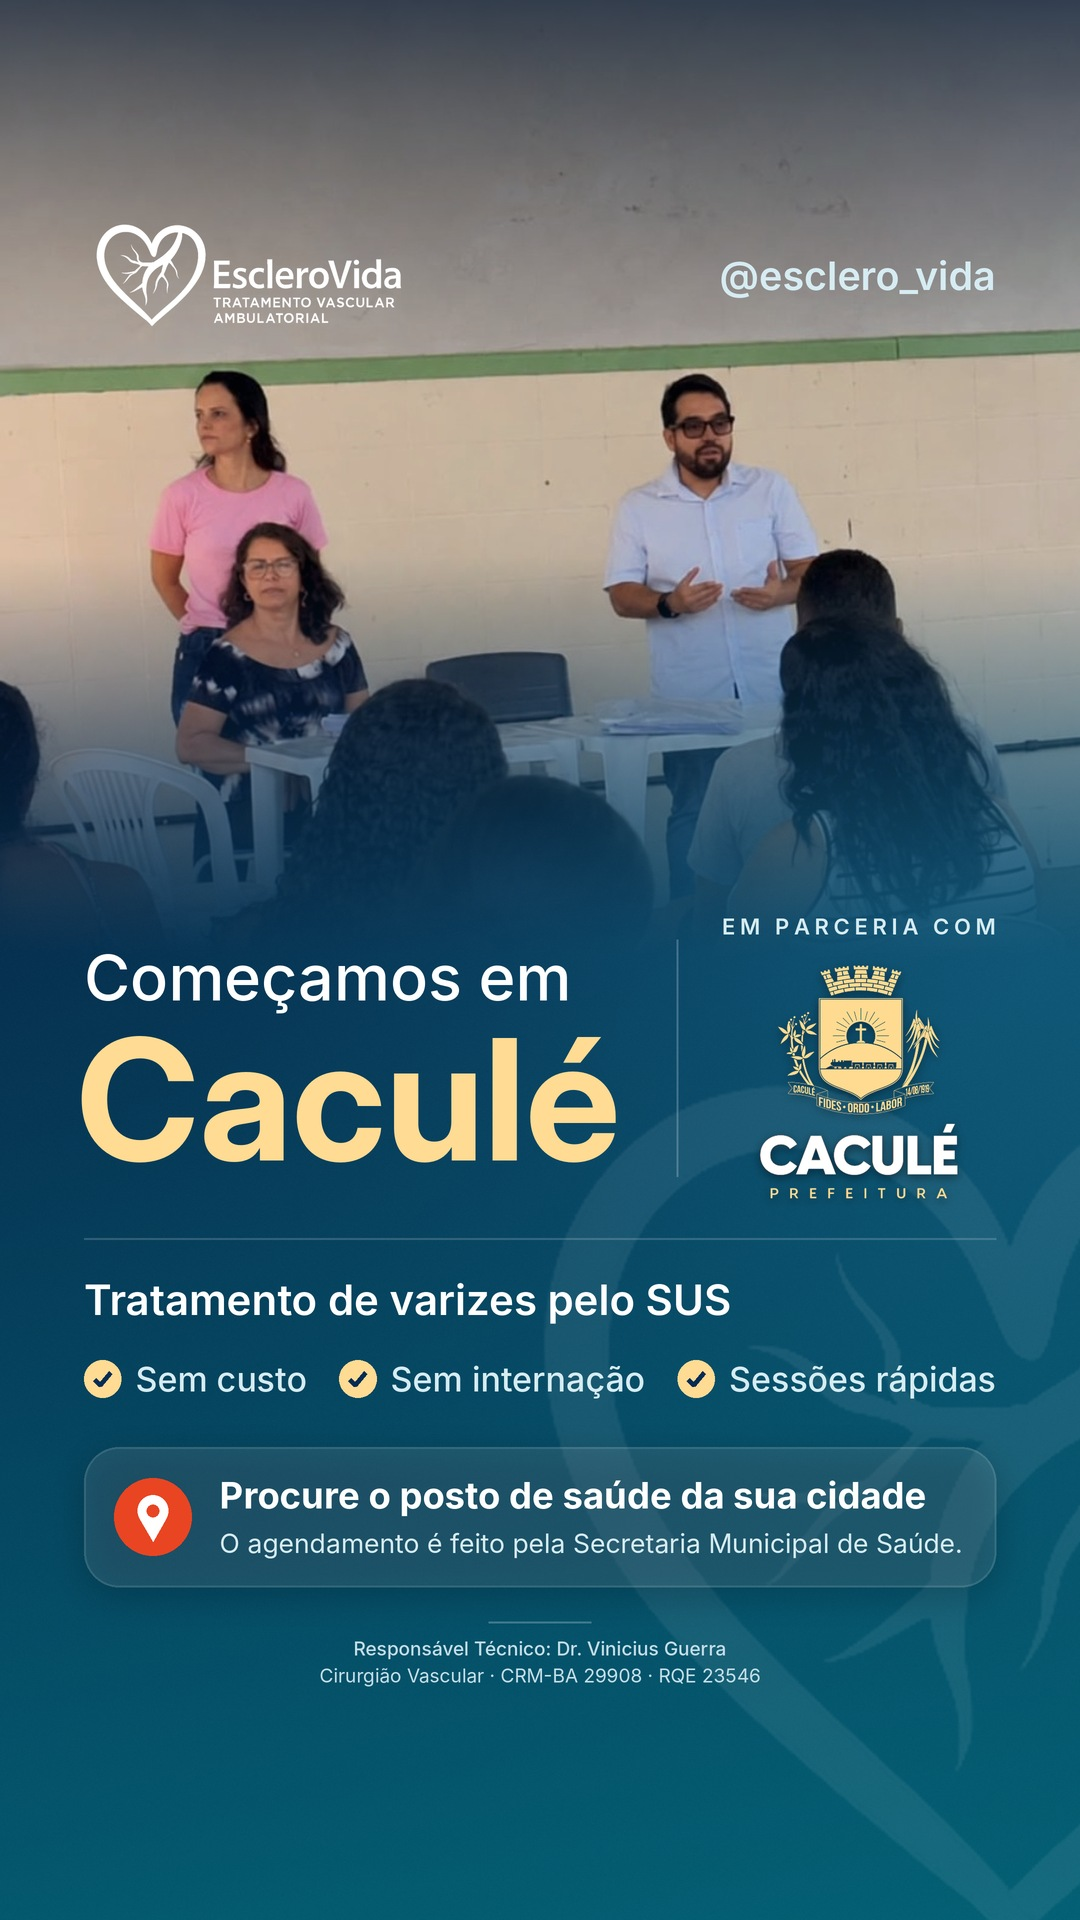
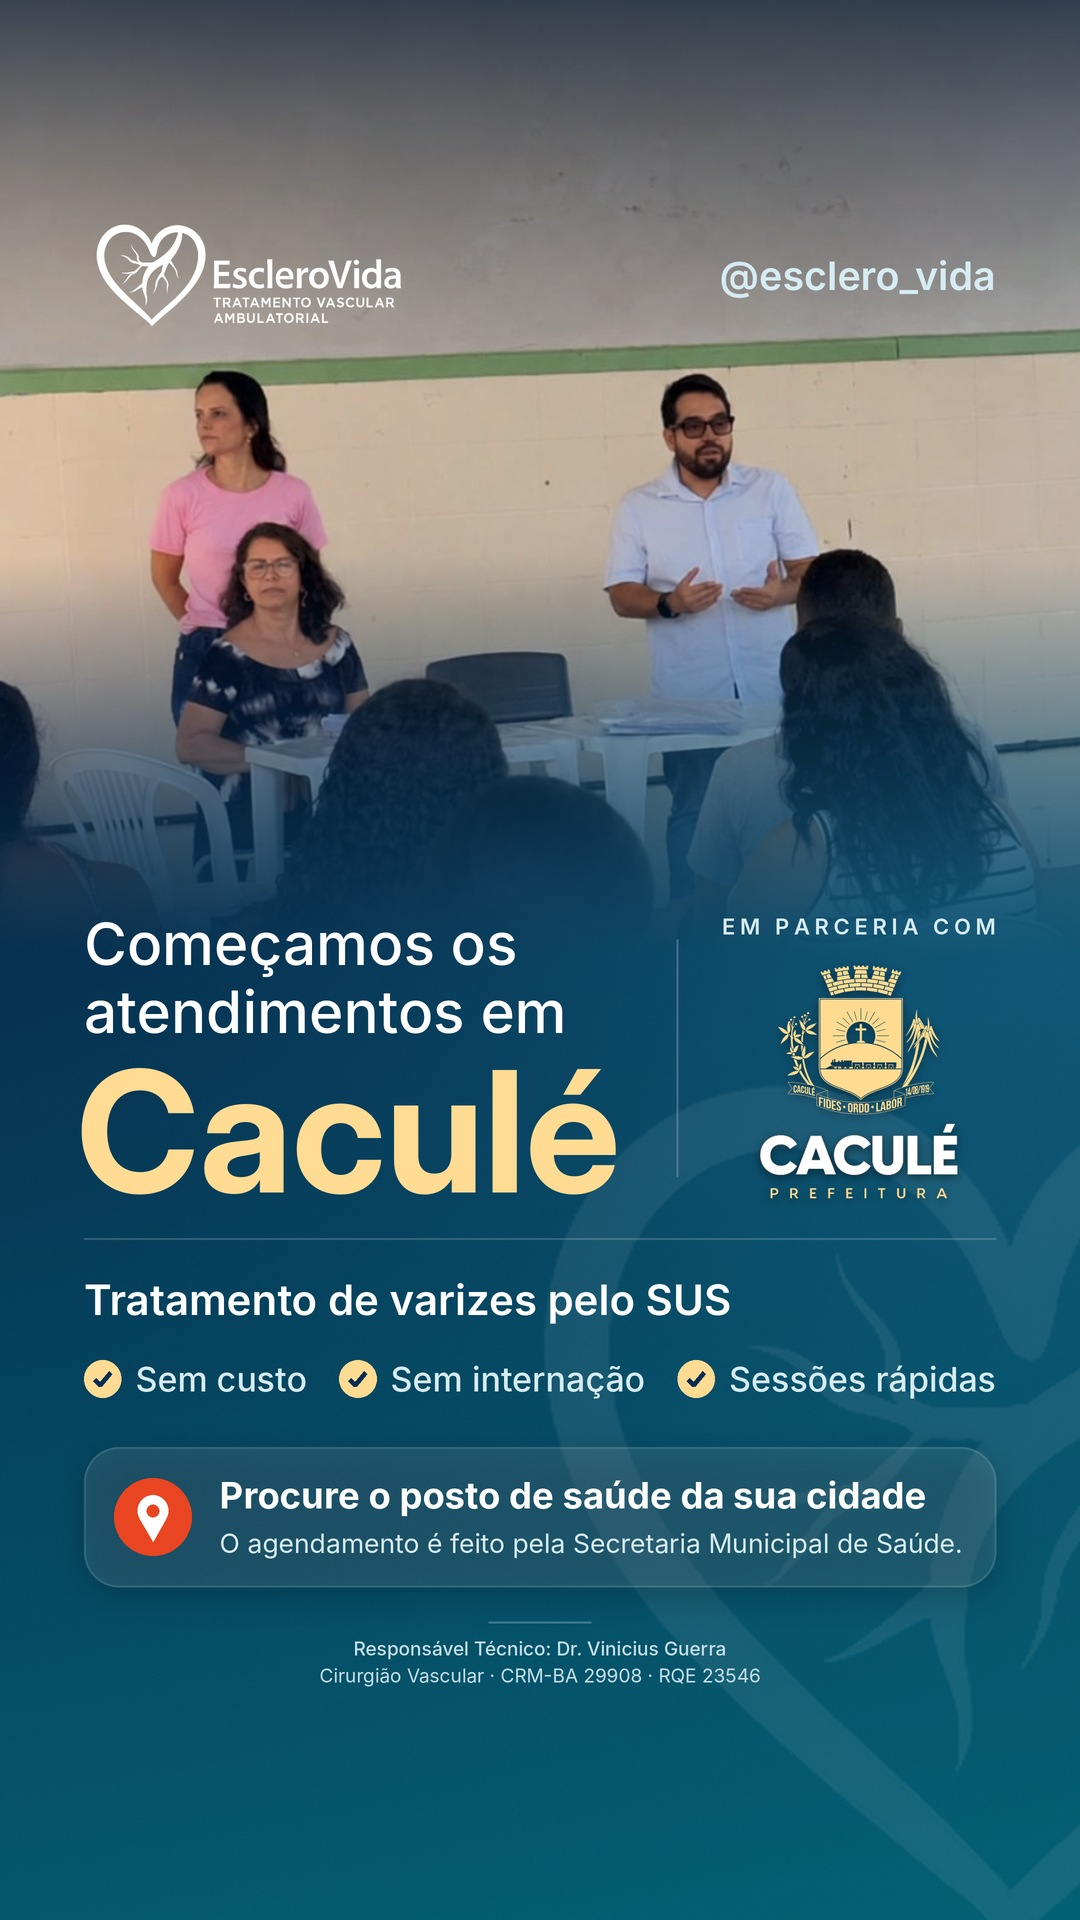
Caculé: título "Começamos os atendimentos em Caculé"
Claude-Session: https://claude.ai/code/session_01M29iTLLFwMWrnxrojtZwME

Changed region(s): [[0.0611, 0.4688, 0.5806, 0.625]]

diff --git a/gerador/anuncio.py b/gerador/anuncio.py
@@ -10,7 +10,7 @@ faixa com o caminho do SUS. O rodapé do Responsável Técnico sai sempre.
 JSON:
     {
       "formato": "feed" | "story",
-      "titulo_pre": "Começamos em",
+      "titulo_pre": "Começamos os\natendimentos em",   # 1 ou 2 linhas (separe com \n)
       "cidade": "Caculé",
       "subtitulo": "Tratamento de varizes pelo SUS",
       "itens": ["Sem custo", "Sem internação", "Sessões rápidas"],     # até 3, curtos
@@ -122,7 +122,14 @@ def render(p, foto, logo2, saida):
         size -= z(4)
     bb = f_cid.getbbox(p["cidade"], anchor="ls")
     asc, desc = -bb[1], max(0, bb[3])
-    pre_asc = z(54) * 0.74
+    pre_linhas = p["titulo_pre"].split("\n")           # aceita 2 linhas com "\n"
+    pre_tam = z(54 if len(pre_linhas) == 1 else 50)
+    while max(md.textlength(l, font=R.font("Inter-Medium.otf", pre_tam)) for l in pre_linhas) > disp \
+            and pre_tam > z(34):
+        pre_tam -= z(1)
+    f_pre = R.font("Inter-Medium.otf", pre_tam)
+    pre_lh = pre_tam * 1.16
+    pre_asc = pre_tam * 0.74 + (len(pre_linhas) - 1) * pre_lh
     tit_h = pre_asc + z(30) + asc + desc
     row_h = max(tit_h, bloco_h)
 
@@ -182,7 +189,8 @@ def render(p, foto, logo2, saida):
     # ---------- título + logo do parceiro ----------
     y = ys + blocos[0]
     ty = y + (row_h - tit_h) / 2
-    d.text((M, ty + pre_asc), p["titulo_pre"], font=f_pre, fill=WHITE, anchor="ls")
+    for i, l in enumerate(pre_linhas):
+        d.text((M, ty + pre_asc - (len(pre_linhas) - 1 - i) * pre_lh), l, font=f_pre, fill=WHITE, anchor="ls")
     d.text((M - size * 0.045, ty + pre_asc + z(30) + asc), p["cidade"], font=f_cid, fill=creme, anchor="ls")
 
     by = y + (row_h - bloco_h) / 2
